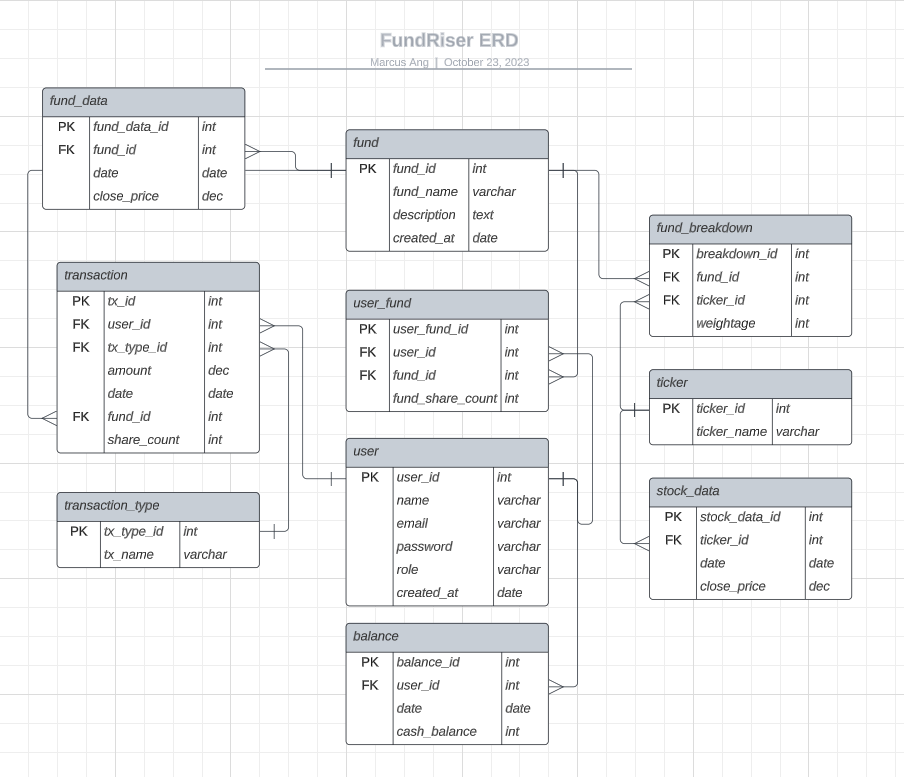
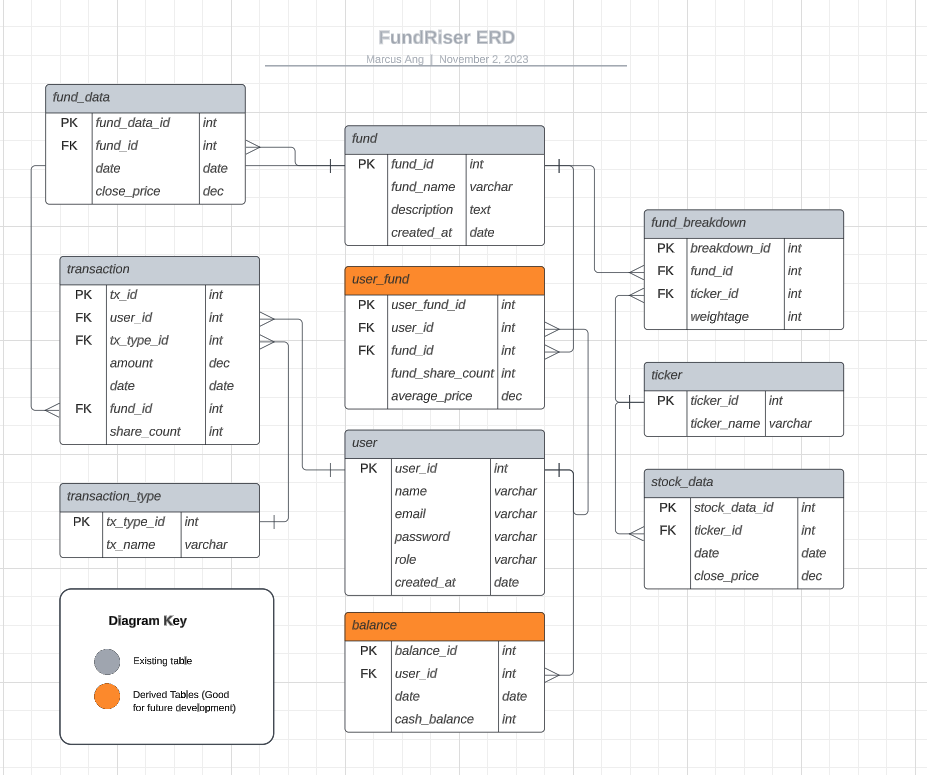
feat: Update

diff --git a/README.md b/README.md
@@ -44,5 +44,9 @@ Try out FundRiser [here]().
 
 ## Future Developments
 
+- **Shifting of growth logic to backend**: Currently fundData is derived in the frontend, making updating very tricky.
+- **Standardise queries**:
+  1. Use node-pg Transaction for all DB queries that requires more than 1 query. (Only started doing that in the later half of my project)
+  2. Move queries into their own queries.js for modular sake
 - **ERD tables**: Finish the incomplete ERD tables in order to store periodic data based on date (Balance and share count of User)
-- **More detailed user analysis**: Using monthly balances create analysis and breakdown of user portfolio
+- **More detailed user analysis**: Using monthly balances create greater analysis and breakdown of user portfolio using dates
